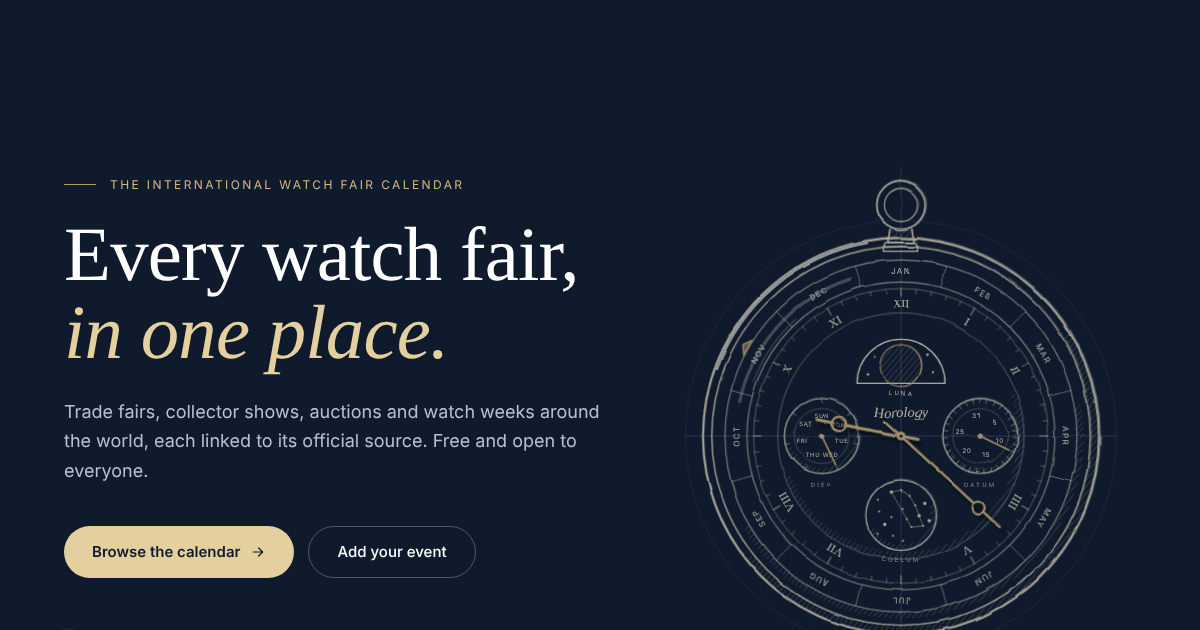
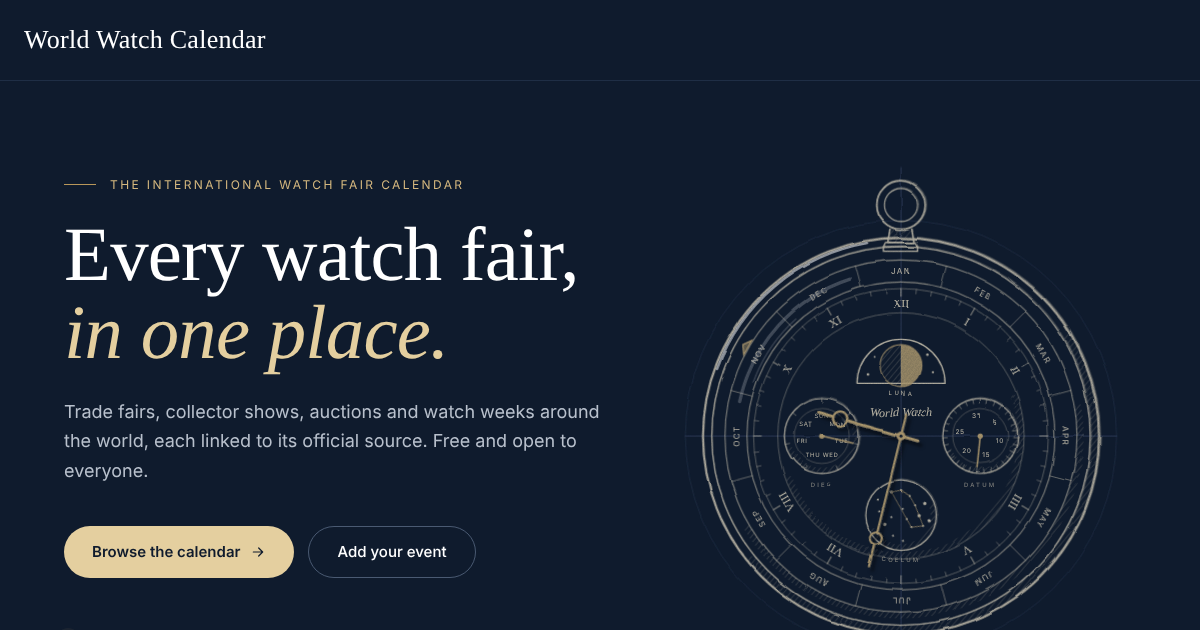
Rename the site to World Watch Calendar
Claude-Session: https://claude.ai/code/session_014pwoN7eabsGkLsZwmVNfCM

diff --git a/src/app.js b/src/app.js
@@ -90,17 +90,17 @@ const STAR = (on) => '<svg width="20" height="20" viewBox="0 0 24 24" fill="' + 
 
 function header(active) {
   const l = (h, t, k) => '<a href="' + h + '" class="nl ul' + (active === k ? ' on' : '') + '"' + (active === k ? ' aria-current="page"' : '') + '>' + t + '</a>';
-  return '<header class="hd"><div class="wrap-l hdi"><a href="/" class="logo">Horology Calendar</a><div class="hdr">'
+  return '<header class="hd"><div class="wrap-l hdi"><a href="/" class="logo">World Watch Calendar</a><div class="hdr">'
     + '<button class="sbtn" data-act="search" aria-label="Search events (shortcut /)" title="Search (/)"><svg width="18" height="18" viewBox="0 0 24 24" fill="none" stroke="currentColor" stroke-width="1.8" stroke-linecap="round" aria-hidden="true"><circle cx="11" cy="11" r="7"/><path d="M20 20l-3.5-3.5"/></svg></button>'
     + '<button class="menu" data-act="menu" aria-label="Open menu" aria-expanded="false"><svg width="20" height="20" viewBox="0 0 24 24" fill="none" stroke="currentColor" stroke-width="1.8" stroke-linecap="round" aria-hidden="true"><path d="M4 7h16M4 12h16M4 17h16"/></svg></button>'
     + '<nav class="nav" id="nav" aria-label="Main"><span class="clock" id="clock">Geneva --:--</span>' + l('/', 'Calendar', 'home') + l('/agenda', 'Agenda', 'agenda') + l('/map', 'Map', 'map') + l('/about', 'About', 'about')
     + '<a href="/add" class="pill' + (active === 'add' ? ' on' : '') + '">Add your event</a></nav></div></div></header>';
 }
 function footer(with289) {
-  return '<footer class="ft"><div class="wrap ftg reveal"><div style="flex:1 1 280px;max-width:360px"><div class="serif" style="font-size:26px">Horology Calendar</div><p style="margin:14px 0 0;font-size:14px;line-height:1.65;color:var(--muted)">The free, open calendar of watch fairs and events worldwide.</p></div>'
+  return '<footer class="ft"><div class="wrap ftg reveal"><div style="flex:1 1 280px;max-width:360px"><div class="serif" style="font-size:26px">World Watch Calendar</div><p style="margin:14px 0 0;font-size:14px;line-height:1.65;color:var(--muted)">The free, open calendar of watch fairs and events worldwide.</p></div>'
     + '<nav aria-label="Explore"><span class="k" style="font-size:11px">Explore</span><a class="ul" href="/">Calendar</a><a class="ul" href="/agenda">Agenda</a><a class="ul" href="/map">World map</a><a class="ul" href="/add">Add your event</a></nav>'
     + '<nav aria-label="Information"><span class="k" style="font-size:11px">Information</span><a class="ul" href="/about">About</a><a class="ul" href="/legal">Legal &amp; privacy</a><a class="ul" href="' + (import.meta.env.VITE_REPO_URL || '/about') + '"' + (import.meta.env.VITE_REPO_URL ? ' target="_blank" rel="noopener"' : '') + '>Open source</a></nav></div>'
-    + '<div class="wrap ftb"><span>© ' + new Date().getFullYear() + ' Horology Calendar · Open source · <a href="/admin" style="color:inherit;text-decoration:none;opacity:.6">Admin</a></span>' + (with289 ? '<span style="font-size:12px">An initiative of 289 Consulting</span>' : '') + '</div></footer>';
+    + '<div class="wrap ftb"><span>© ' + new Date().getFullYear() + ' World Watch Calendar · Open source · <a href="/admin" style="color:inherit;text-decoration:none;opacity:.6">Admin</a></span>' + (with289 ? '<span style="font-size:12px">An initiative of 289 Consulting</span>' : '') + '</div></footer>';
 }
 
 /* ---------------- HOME ---------------- */
@@ -433,7 +433,7 @@ function pageAdd() {
     + '<label class="lbl2">Short description<textarea class="field" rows="4" maxlength="300" name="desc" placeholder="One or two sentences about the event"></textarea><span id="cc" style="align-self:flex-end;font-size:12px;font-weight:400;color:var(--muted)">0 / 300</span></label></fieldset>'
     + '<fieldset class="reveal" style="margin:0;padding:0;border:0;display:flex;flex-direction:column;gap:22px"><legend class="serif" style="padding:0;margin-bottom:28px;font-size:36px"><span style="font-size:20px;color:var(--gold2);margin-right:14px">02</span>Location</legend><label class="lbl2">Venue<input class="field" name="venue" placeholder="e.g. Palexpo"></label><div class="frow" style="gap:20px"><label class="lbl2" style="flex:1 1 220px">City *<input class="field" name="city" required></label><label class="lbl2" style="flex:1 1 220px">Country *<select class="field" name="country" required><option value="">Select a country</option>' + COUNTRY_LIST.map(([k, c]) => '<option value="' + k + '">' + esc(c) + '</option>').join('') + '</select></label></div></fieldset>'
     + '<fieldset class="reveal" style="margin:0;padding:0;border:0;display:flex;flex-direction:column;gap:22px"><legend class="serif" style="padding:0;margin-bottom:28px;font-size:36px"><span style="font-size:20px;color:var(--gold2);margin-right:14px">03</span>Organiser</legend><div class="frow" style="gap:20px"><label class="lbl2" style="flex:1 1 220px">Organiser name *<input class="field" name="org" required></label><label class="lbl2" style="flex:1 1 220px">Contact email *<input class="field" type="email" name="email" required placeholder="Not shown publicly"></label></div><label class="lbl2">Official website *<input class="field" type="url" name="site" required placeholder="https://"></label><label class="lbl2">Press days (optional)<input class="field" name="press" maxlength="80" placeholder="e.g. 5 – 6 April, press only"></label><label class="hp" aria-hidden="true">Leave empty<input name="website2" tabindex="-1" autocomplete="off"></label></fieldset>'
-    + '<div class="reveal" style="display:flex;flex-direction:column;gap:24px"><div style="padding:28px;background:var(--surface);border-radius:4px"><label style="display:flex;align-items:flex-start;gap:14px;font-size:14px;line-height:1.65;cursor:pointer"><input type="checkbox" name="ok" required style="width:18px;height:18px;margin:3px 0 0;flex:0 0 auto;accent-color:#0F1B2D"><span>I represent the organiser of this event. I confirm the information is accurate and accept that the organiser is responsible for the content published.</span></label><p style="margin:12px 0 0 32px;font-size:13px;line-height:1.6;color:var(--muted)">Horology Calendar reviews new listings and may edit or remove those that are inaccurate or unrelated to watchmaking.</p></div>'
+    + '<div class="reveal" style="display:flex;flex-direction:column;gap:24px"><div style="padding:28px;background:var(--surface);border-radius:4px"><label style="display:flex;align-items:flex-start;gap:14px;font-size:14px;line-height:1.65;cursor:pointer"><input type="checkbox" name="ok" required style="width:18px;height:18px;margin:3px 0 0;flex:0 0 auto;accent-color:#0F1B2D"><span>I represent the organiser of this event. I confirm the information is accurate and accept that the organiser is responsible for the content published.</span></label><p style="margin:12px 0 0 32px;font-size:13px;line-height:1.6;color:var(--muted)">World Watch Calendar reviews new listings and may edit or remove those that are inaccurate or unrelated to watchmaking.</p></div>'
     + '<p class="err" id="adderr" role="alert" style="margin:0"></p><button class="btn btn-navy" type="submit" id="addbtn" style="align-self:flex-start;min-height:56px;padding:0 34px">Publish event ' + ARR + '</button><p style="margin:0;font-size:13px;line-height:1.6;color:var(--muted)">By publishing, you agree to our <a class="ul" href="/legal">terms and privacy notice</a>. Your email is only used to contact you about this listing.</p></div></form></main>' + footer(false);
 }
 async function saveSub(f) {
@@ -459,7 +459,7 @@ function addDone(ev0) {
 
 /* ---------------- ABOUT ---------------- */
 function pageAbout() {
-  return '<section class="dark" style="overflow:hidden">' + header('about') + '<div class="wrap" style="padding-top:96px;padding-bottom:104px;display:flex;flex-wrap:wrap;align-items:center;gap:56px"><div style="flex:999 1 520px;min-width:0"><div class="eyebrow in">About</div><h1 class="big in d1">A free, open calendar for the <em class="g">watch world.</em></h1><p class="lead in d2">Watch fairs, collector shows and watch weeks are spread across dozens of websites. Horology Calendar brings them together in one simple place, for brands, press, retailers and collectors.</p></div>'
+  return '<section class="dark" style="overflow:hidden">' + header('about') + '<div class="wrap" style="padding-top:96px;padding-bottom:104px;display:flex;flex-wrap:wrap;align-items:center;gap:56px"><div style="flex:999 1 520px;min-width:0"><div class="eyebrow in">About</div><h1 class="big in d1">A free, open calendar for the <em class="g">watch world.</em></h1><p class="lead in d2">Watch fairs, collector shows and watch weeks are spread across dozens of websites. World Watch Calendar brings them together in one simple place, for brands, press, retailers and collectors.</p></div>'
     + '<div class="in d2" style="flex:1 1 260px;display:flex;justify-content:center"><svg viewBox="0 0 400 400" style="width:100%;max-width:330px" aria-hidden="true"><defs><path id="ar" d="M200,200 m-170,0 a170,170 0 1,1 340,0 a170,170 0 1,1 -340,0"/></defs><circle cx="200" cy="200" r="190" fill="none" stroke="#1F2E45"/><circle cx="200" cy="200" r="150" fill="none" stroke="#1F2E45"/><g class="ring" style="animation-duration:200s"><text font-family="Inter,sans-serif" font-size="11" letter-spacing="4.4" fill="#B8975A"><textPath href="#ar">BRANDS · PRESS · RETAILERS · COLLECTORS · ORGANISERS · BRANDS · PRESS · RETAILERS · COLLECTORS · </textPath></text></g><text x="200" y="196" text-anchor="middle" font-family="Instrument Serif,Georgia,serif" font-size="64" fill="#E4CF9F">One</text><text x="200" y="228" text-anchor="middle" font-family="Inter,sans-serif" font-size="10" letter-spacing="3.5" fill="#B8C0CC">CALENDAR FOR ALL</text></svg></div></div></section>'
     + '<main class="wrap" style="padding-top:112px;padding-bottom:40px"><div class="eyebrow reveal">How it works</div><h2 class="sec reveal">Simple by design</h2><div style="margin-top:48px;display:grid;grid-template-columns:repeat(auto-fit,minmax(260px,1fr));gap:24px">'
     + [['01', 'Listed', 'Events from around the world, filterable by country, date, type and size.'], ['02', 'Linked to the source', 'Every listing points to the event’s official website for tickets and registration.'], ['03', 'Open to organisers', 'Organisers add their own events for free, in a few minutes.']].map(([n, t, d], i) => '<div class="step reveal" style="--d:' + i * 150 + 'ms"><div class="serif" style="font-size:48px;line-height:1;color:var(--gold2)">' + n + '</div><h3 style="margin:28px 0 0;font-size:19px;font-weight:600">' + t + '</h3><p style="margin:12px 0 0;font-size:15px;line-height:1.7;color:var(--muted)">' + d + '</p></div>').join('')
@@ -475,8 +475,8 @@ function pageLegal() {
   const C = import.meta.env.VITE_CONTACT_EMAIL || '[contact email]';
   return '<section class="dark">' + header('') + '<div class="wrap" style="padding-top:88px;padding-bottom:72px"><div class="eyebrow in">Legal</div><h1 class="big in d1">Legal notice &amp; <em class="g">privacy</em></h1><p class="lead in d2">Last updated ' + range('2026-11-11', '2026-11-11') + '.</p></div></section>'
     + '<main style="max-width:820px;margin:0 auto;padding:40px 24px 120px">'
-    + sec('Publisher', '<p>Horology Calendar is published by 289 Consulting, [legal form and registered address], Switzerland. Contact: <a class="ul" href="mailto:' + C + '">' + C + '</a>.</p><p>The website is hosted by Vercel Inc., 440 N Barranca Ave #4133, Covina, CA 91723, United States. Event data is stored with Supabase Inc. in a European data centre.</p>')
-    + sec('Listings and responsibility', '<p>Horology Calendar is a free, independent calendar. Event information is published by each organiser, or compiled by our team from official sources. The organiser remains responsible for the content of their listing.</p><p>We review new listings and may edit or remove any listing that is inaccurate, misleading, unrelated to watchmaking or that infringes third-party rights. Dates, venues and access conditions can change: always check the official website before travelling.</p><p>Names, logos and images belong to their respective owners and are shown for information only, with credit, or with the organiser’s permission.</p>')
+    + sec('Publisher', '<p>World Watch Calendar is published by 289 Consulting, [legal form and registered address], Switzerland. Contact: <a class="ul" href="mailto:' + C + '">' + C + '</a>.</p><p>The website is hosted by Vercel Inc., 440 N Barranca Ave #4133, Covina, CA 91723, United States. Event data is stored with Supabase Inc. in a European data centre.</p>')
+    + sec('Listings and responsibility', '<p>World Watch Calendar is a free, independent calendar. Event information is published by each organiser, or compiled by our team from official sources. The organiser remains responsible for the content of their listing.</p><p>We review new listings and may edit or remove any listing that is inaccurate, misleading, unrelated to watchmaking or that infringes third-party rights. Dates, venues and access conditions can change: always check the official website before travelling.</p><p>Names, logos and images belong to their respective owners and are shown for information only, with credit, or with the organiser’s permission.</p>')
     + sec('Personal data', '<p><strong>Organisers.</strong> When you add an event, we store the contact email you give us. It is never published and is only used to contact you about your listing. We keep it as long as the listing is online, then delete it.</p><p><strong>Newsletter.</strong> If you subscribe, we store your email to send you a monthly overview of upcoming events. You can unsubscribe at any time with the link in each email or by writing to us.</p><p><strong>Visitors.</strong> We do not use advertising or tracking cookies. Events you save to “My season” are stored only in your own browser.</p><p>You can ask us to access, correct or delete your data at any time by writing to <a class="ul" href="mailto:' + C + '">' + C + '</a>. Our processing follows the Swiss Federal Act on Data Protection (FADP) and, for visitors in the European Union, the GDPR.</p>')
     + sec('Maps', '<p>Country outlines come from Natural Earth (public domain). City coordinates are looked up with OpenStreetMap Nominatim (© OpenStreetMap contributors).</p>')
     + '</main>' + footer(true);
@@ -558,7 +558,7 @@ async function admSet(id, patch) {
 }
 function pageAdmin() {
   const head = '<section class="dark">' + header('') + '<div class="wrap-l" style="padding-top:72px;padding-bottom:64px"><div class="eyebrow in">Admin</div><h1 class="big in d1">Listings <em class="g">desk</em></h1>';
-  if (!admUnlocked()) return head + '<form id="admlog" class="in d2" style="margin-top:36px;display:flex;flex-direction:column;gap:10px;max-width:420px"><label><span class="sr">Email</span><input class="field" type="email" name="email" placeholder="Email" autocomplete="username" required style="height:54px;border-radius:999px;padding:0 20px"></label><label><span class="sr">Password</span><input class="field" type="password" name="pw" placeholder="Password" autocomplete="current-password" required style="height:54px;border-radius:999px;padding:0 20px"></label><button class="btn btn-gold" type="submit" style="align-self:flex-start">Sign in</button></form>' + (DEMO ? '<p class="in d3" style="margin:14px 0 0;font-size:13px;color:var(--gold)">Demo mode (no database connected): sign in with demo@horologycalendar.test / demo</p>' : '') + '<p class="in d3" style="margin:14px 0 0;font-size:13px;color:var(--muted-d2)">Restricted to the Horology Calendar team.</p><p class="err" id="admerr" role="alert" style="margin:10px 0 0"></p></div></section>' + footer(false);
+  if (!admUnlocked()) return head + '<form id="admlog" class="in d2" style="margin-top:36px;display:flex;flex-direction:column;gap:10px;max-width:420px"><label><span class="sr">Email</span><input class="field" type="email" name="email" placeholder="Email" autocomplete="username" required style="height:54px;border-radius:999px;padding:0 20px"></label><label><span class="sr">Password</span><input class="field" type="password" name="pw" placeholder="Password" autocomplete="current-password" required style="height:54px;border-radius:999px;padding:0 20px"></label><button class="btn btn-gold" type="submit" style="align-self:flex-start">Sign in</button></form>' + (DEMO ? '<p class="in d3" style="margin:14px 0 0;font-size:13px;color:var(--gold)">Demo mode (no database connected): sign in with demo@worldwatchcalendar.test / demo</p>' : '') + '<p class="in d3" style="margin:14px 0 0;font-size:13px;color:var(--muted-d2)">Restricted to the World Watch Calendar team.</p><p class="err" id="admerr" role="alert" style="margin:10px 0 0"></p></div></section>' + footer(false);
   const all = EV.slice().sort((a, b) => a.s < b.s ? -1 : 1);
   const todo = all.filter((e) => e.user && !e.reviewed && !e.hidden).sort((a, b) => a.sub < b.sub ? 1 : -1);
   const live = all.filter((e) => !e.hidden && e.e >= today());
@@ -684,7 +684,7 @@ function sketchSVG() {
   o += '<g class="sky"><g class="skt" style="--d:' + D(120) + 'ms">' + st.map(([x, y], i) => '<circle cx="' + (C + x) + '" cy="' + (322 + y) + '" r="' + (i % 4 ? .9 : 1.5) + '" fill="' + P + '"/>').join('') + '</g>'
     + '<path class="sk" pathLength="1" d="M' + (C - 14) + ' 304 L' + (C - 6) + ' 300 L' + (C + 3) + ' 303 L' + (C + 10) + ' 310 L' + (C + 16) + ' 318 L' + (C + 22) + ' 326 L' + (C + 12) + ' 330 Z" stroke="' + G + '" stroke-width=".8" stroke-opacity=".8" fill="none" style="--d:' + D(200) + 'ms"/></g>';
   o += tx(C, 362, 'COELUM', 5.4, D(60), ' letter-spacing="2" fill-opacity=".7"');
-  o += tx(C, 228, 'Horology', 13, D(80), ' font-family="Instrument Serif,Georgia,serif" font-style="italic"');
+  o += tx(C, 228, 'World Watch', 11, D(80), ' font-family="Instrument Serif,Georgia,serif" font-style="italic"');
   // relief: hatched inner shadows (light from top-left) + domed crystal highlight
   const arcBand = (cx, cy, r1, r2, a1, a2) => { const [x1, y1] = pol(cx, cy, r2, a1), [x2, y2] = pol(cx, cy, r2, a2), [x3, y3] = pol(cx, cy, r1, a2), [x4, y4] = pol(cx, cy, r1, a1); return 'M' + x1 + ' ' + y1 + ' A' + r2 + ' ' + r2 + ' 0 0 1 ' + x2 + ' ' + y2 + ' L' + x3 + ' ' + y3 + ' A' + r1 + ' ' + r1 + ' 0 0 0 ' + x4 + ' ' + y4 + ' Z'; };
   const sh = D(120);
@@ -761,14 +761,14 @@ function go(path) { if (path !== location.pathname + location.hash) history.push
 function route() {
   const p = location.pathname.replace(/\/+$/, '') || '/';
   const app = document.getElementById('app');
-  const H = 'Horology Calendar';
+  const H = 'World Watch Calendar';
   if (GLM.api && p !== '/map') { GLM.api.destroy(); GLM.api = null; }
   if (p.startsWith('/event/')) { const id = decodeURIComponent(p.slice(7)); const e = byId[id]; app.innerHTML = pageEvent(id); setMeta((e ? e.n + ' · ' : 'Event not found · ') + H, e ? e.n + ': ' + range(e.s, e.e) + ', ' + place(e) + '. ' + (e.desc || 'Dates, venue and official website.') : ''); if (e) eventJsonLd(e); tickCountdown(); }
   else if (p === '/agenda') { app.innerHTML = pageAgenda(); renderAgenda(); setMeta('Agenda · ' + H, 'Month-by-month agenda of watch fairs, collector shows, auctions and watch weeks worldwide.'); }
   else if (p === '/map') { if (GLM.api) { GLM.api.destroy(); GLM.api = null; } app.innerHTML = pageMap(); updateMap(); setMeta('World map · ' + H, 'Explore watch fairs and events around the world on an interactive map.'); }
   else if (p === '/add') { app.innerHTML = pageAdd(); window.__addT = Date.now(); setMeta('Add your event · ' + H, 'Organisers: list your watch fair or event for free in a few minutes.'); }
   else if (p === '/about') { app.innerHTML = pageAbout(); setMeta('About · ' + H, 'A free, open calendar for the watch world. An initiative of 289 Consulting.'); }
-  else if (p === '/legal') { app.innerHTML = pageLegal(); setMeta('Legal & privacy · ' + H, 'Legal notice, terms of publication and privacy policy of Horology Calendar.'); }
+  else if (p === '/legal') { app.innerHTML = pageLegal(); setMeta('Legal & privacy · ' + H, 'Legal notice, terms of publication and privacy policy of World Watch Calendar.'); }
   else if (p === '/admin') { if (!AUTH.checked) { AUTH.checked = true; admLoad().then(() => { if (AUTH.ok) route(); }); } app.innerHTML = pageAdmin(); renderAdmRows(); setMeta('Admin · ' + H); }
   else if (p === '/') { app.innerHTML = pageHome(); heroStart(); renderList(); setMeta(H + ' · The international watch fair calendar', 'The free, open calendar of watch fairs and events worldwide: trade fairs, collector shows, auctions and watch weeks, each linked to its official source.'); countUp(); }
   else { app.innerHTML = pageNotFound(); setMeta('Page not found · ' + H); }
@@ -800,7 +800,7 @@ document.addEventListener('click', (ev) => {
   if (a === 'admhide') { const e = byId[t.dataset.id], was = e.hidden; admSet(e.id, { hid: !was, rev: true }).then(() => { toast(was ? 'Listing restored' : 'Listing hidden from the site'); admRefresh(); }, () => {}); return; }
   if (a === 'admedit') { admEdit(t.dataset.id); return; }
   if (a === 'admclose') { const o = document.getElementById('admedit'); if (o) o.remove(); return; }
-  if (a === 'admsubs') { api.subscribers().then((list) => { const csv = 'email,signed_up\n' + list.map((s) => s.email + ',' + (s.created_at || '').slice(0, 10)).join('\n'); const u = URL.createObjectURL(new Blob([csv], { type: 'text/csv' })); const l = document.createElement('a'); l.href = u; l.download = 'horology-calendar-newsletter.csv'; document.body.appendChild(l); l.click(); l.remove(); toast(list.length + ' subscribers exported'); }, () => toast('Could not load the list')); return; }
+  if (a === 'admsubs') { api.subscribers().then((list) => { const csv = 'email,signed_up\n' + list.map((s) => s.email + ',' + (s.created_at || '').slice(0, 10)).join('\n'); const u = URL.createObjectURL(new Blob([csv], { type: 'text/csv' })); const l = document.createElement('a'); l.href = u; l.download = 'world-watch-calendar-newsletter.csv'; document.body.appendChild(l); l.click(); l.remove(); toast(list.length + ' subscribers exported'); }, () => toast('Could not load the list')); return; }
   if (a === 'admout') { api.signOut().then(() => { Object.assign(AUTH, { ok: false, email: '', contacts: {} }); return loadEvents(); }).then(() => route()); return; }
   if (a === 'admgeo') { const f = document.getElementById('admef'); toast('Looking up ' + f.city.value + '…'); geocode(f.city.value, (byId[f.dataset.id] || {}).country || '').then((p) => { if (p) { f.lat.value = p.lat; f.lon.value = p.lon; toast('Coordinates found'); } else toast('City not found, enter coordinates manually'); }); return; }
   if (a === 'sclose') { closeSearch(); return; }
@@ -813,7 +813,7 @@ document.addEventListener('click', (ev) => {
   if (a === 'reset') { Object.assign(F, { q: '', country: '', month: '', size: '', type: 'all', open: false, free: false, mine: false, autoMonth: true }); route(); return; }
   if (a === 'star') { const id = t.dataset.id; if (saved[id]) delete saved[id]; else saved[id] = 1; store.set(saved); toast(saved[id] ? 'Saved to My season' : 'Removed from My season'); if (document.getElementById('list')) renderList(); else route(); return; }
   if (a === 'copy') { try { navigator.clipboard.writeText(location.href).then(() => toast('Link copied'), () => toast('Copy the address from your browser bar')); } catch (x) { toast('Copy the address from your browser bar'); } return; }
-  if (a === 'ics') { const e = byId[t.dataset.id]; const txt = ['BEGIN:VCALENDAR', 'VERSION:2.0', 'PRODID:-//Horology Calendar//EN', 'BEGIN:VEVENT', 'UID:' + e.id + '@horology-calendar', 'DTSTAMP:' + new Date().toISOString().replace(/[-:]/g, '').slice(0, 15) + 'Z', 'DTSTART;VALUE=DATE:' + e.s.replace(/-/g, ''), 'DTEND;VALUE=DATE:' + ISO(T(e.e) + DAY).replace(/-/g, ''), 'SUMMARY:' + e.n.replace(/,/g, '\\,'), 'LOCATION:' + place(e).replace(/,/g, '\\,'), 'URL:' + (e.site || ''), 'END:VEVENT', 'END:VCALENDAR'].join('\r\n'); const url = URL.createObjectURL(new Blob([txt], { type: 'text/calendar' })); const l = document.createElement('a'); l.href = url; l.download = e.id + '.ics'; document.body.appendChild(l); l.click(); l.remove(); setTimeout(() => URL.revokeObjectURL(url), 1500); return; }
+  if (a === 'ics') { const e = byId[t.dataset.id]; const txt = ['BEGIN:VCALENDAR', 'VERSION:2.0', 'PRODID:-//World Watch Calendar//EN', 'BEGIN:VEVENT', 'UID:' + e.id + '@worldwatchcalendar', 'DTSTAMP:' + new Date().toISOString().replace(/[-:]/g, '').slice(0, 15) + 'Z', 'DTSTART;VALUE=DATE:' + e.s.replace(/-/g, ''), 'DTEND;VALUE=DATE:' + ISO(T(e.e) + DAY).replace(/-/g, ''), 'SUMMARY:' + e.n.replace(/,/g, '\\,'), 'LOCATION:' + place(e).replace(/,/g, '\\,'), 'URL:' + (e.site || ''), 'END:VEVENT', 'END:VCALENDAR'].join('\r\n'); const url = URL.createObjectURL(new Blob([txt], { type: 'text/calendar' })); const l = document.createElement('a'); l.href = url; l.download = e.id + '.ics'; document.body.appendChild(l); l.click(); l.remove(); setTimeout(() => URL.revokeObjectURL(url), 1500); return; }
   if (a === 'agprev') { A.mi--; A.sel = ''; renderAgenda(); return; }
   if (a === 'agnext') { A.mi++; A.sel = ''; renderAgenda(); return; }
   if (a === 'agm') { A.mi = +v; A.sel = ''; renderAgenda(); return; }
@@ -855,12 +855,12 @@ async function boot() {
   const intro = !seen && location.pathname === '/';
   const t0 = Date.now(); let l = null;
   if (intro) {
-    const word = 'Horology Calendar'.split('').map((c, i) => c === ' ' ? '<span>&#160;</span>' : '<span class="ch" style="animation-delay:' + (200 + i * 100) + 'ms">' + c + '</span>').join('');
-    l = document.createElement('div'); l.className = 'ld'; l.setAttribute('role', 'status'); l.setAttribute('aria-label', 'Loading Horology Calendar');
+    const word = 'World Watch Calendar'.split('').map((c, i) => c === ' ' ? '<span>&#160;</span>' : '<span class="ch" style="animation-delay:' + (200 + i * 100) + 'ms">' + c + '</span>').join('');
+    l = document.createElement('div'); l.className = 'ld'; l.setAttribute('role', 'status'); l.setAttribute('aria-label', 'Loading World Watch Calendar');
     l.innerHTML = '<div class="bar"></div><div style="padding:0 16px"><div class="word" aria-hidden="true">' + word + '</div><div class="sub">The international watch fair calendar</div></div>';
     introDone = false; document.documentElement.classList.add('intro'); document.body.appendChild(l);
   }
-  try { await loadEvents(); } catch (x) { if (l) l.remove(); document.documentElement.classList.remove('intro'); document.getElementById('app').innerHTML = '<div style="padding:120px 24px;text-align:center;font-family:Inter,sans-serif"><h1 style="font-weight:500">Horology Calendar</h1><p>The calendar could not be loaded. Please refresh the page in a moment.</p></div>'; return; }
+  try { await loadEvents(); } catch (x) { if (l) l.remove(); document.documentElement.classList.remove('intro'); document.getElementById('app').innerHTML = '<div style="padding:120px 24px;text-align:center;font-family:Inter,sans-serif"><h1 style="font-weight:500">World Watch Calendar</h1><p>The calendar could not be loaded. Please refresh the page in a moment.</p></div>'; return; }
   if (location.pathname === '/admin') { try { await admLoad(); } catch (x) {} }
   if (!intro) { firstLoad = false; route(); return; }
   route();

diff --git a/src/style.css b/src/style.css
@@ -124,7 +124,8 @@ kbd{display:inline-flex;align-items:center;justify-content:center;min-width:26px
 /* header */
 .hd{border-bottom:1px solid var(--line-d);background:var(--navy);color:#fff;position:relative;z-index:20}
 .hdi{min-height:80px;display:flex;align-items:center;justify-content:space-between;gap:16px}
-.logo{font-family:var(--serif);font-size:26px;color:#fff;text-decoration:none;letter-spacing:.01em}
+.logo{font-family:var(--serif);font-size:26px;color:#fff;text-decoration:none;letter-spacing:.01em;white-space:nowrap}
+@media (max-width:480px){.logo{font-size:21px}}
 .nav{display:flex;align-items:center;gap:34px;font-size:12px;letter-spacing:.16em;text-transform:uppercase}
 .nl{color:#C5CCD6}
 .nl:hover,.nl.on{color:#fff}
@@ -144,7 +145,7 @@ kbd{display:inline-flex;align-items:center;justify-content:center;min-width:26px
 .ld{position:fixed;inset:0;z-index:100;background:#fff;display:flex;align-items:center;justify-content:center;transition:opacity .7s ease,visibility .7s}
 .ld.out{opacity:0;visibility:hidden}
 .ld .bar{position:absolute;top:0;left:0;height:3px;width:0;background:var(--navy);animation:bar 2.7s cubic-bezier(.6,0,.2,1) .1s forwards}
-.ld .word{font-family:var(--serif);font-size:clamp(36px,8vw,60px);white-space:nowrap;line-height:1}
+.ld .word{font-family:var(--serif);font-size:clamp(28px,7.5vw,60px);white-space:nowrap;line-height:1}
 .ld .ch{color:#D3D5D9;animation:ink .4s ease forwards}
 .ld .sub{margin-top:16px;font-size:12px;letter-spacing:.28em;text-transform:uppercase;color:var(--muted);opacity:0;animation:fade .7s ease 1.9s forwards;text-align:center}
 @keyframes bar{to{width:100%}}

diff --git a/src/api.js b/src/api.js
@@ -1,4 +1,4 @@
-// Data access for Horology Calendar.
+// Data access for World Watch Calendar.
 // With VITE_SUPABASE_URL and VITE_SUPABASE_ANON_KEY set, everything goes to the
 // Supabase database. Without them the site runs in "demo mode" from the bundled
 // seed data, and changes are kept in the visitor's own browser only.
@@ -60,9 +60,9 @@ function demoApi() {
     },
     async updateEvent(id, patch) { if (!signed) throw new Error('not allowed'); const s = state(); s.patch[id] = Object.assign(s.patch[id] || {}, patch, { updated_on: today() }); save(s); },
     async subscribe(email) { const s = state(); if (!s.subs.find((x) => x.email === email)) s.subs.push({ email, created_at: new Date().toISOString() }); save(s); },
-    async signIn(email, password) { if (email !== 'demo@horologycalendar.test' || password !== 'demo') throw new Error('Invalid login'); signed = true; try { sessionStorage.setItem('hc-demo-admin', '1'); } catch (x) {} },
+    async signIn(email, password) { if (email !== 'demo@worldwatchcalendar.test' || password !== 'demo') throw new Error('Invalid login'); signed = true; try { sessionStorage.setItem('hc-demo-admin', '1'); } catch (x) {} },
     async signOut() { signed = false; try { sessionStorage.removeItem('hc-demo-admin'); } catch (x) {} },
-    async session() { return signed ? { email: 'demo@horologycalendar.test' } : null; },
+    async session() { return signed ? { email: 'demo@worldwatchcalendar.test' } : null; },
     async isAdmin() { return signed; },
     async contacts() { return state().contacts; },
     async subscribers() { return state().subs; },

diff --git a/index.html b/index.html
@@ -3,13 +3,13 @@
 <head>
 <meta charset="utf-8">
 <meta name="viewport" content="width=device-width, initial-scale=1">
-<title>Horology Calendar · The international watch fair calendar</title>
+<title>World Watch Calendar · The international watch fair calendar</title>
 <meta name="description" content="The free, open calendar of watch fairs and events worldwide: trade fairs, collector shows, auctions and watch weeks, each linked to its official source.">
 <meta name="theme-color" content="#0F1B2D">
 <link rel="icon" href="/favicon.svg" type="image/svg+xml">
 <meta property="og:type" content="website">
-<meta property="og:site_name" content="Horology Calendar">
-<meta property="og:title" content="Horology Calendar · The international watch fair calendar">
+<meta property="og:site_name" content="World Watch Calendar">
+<meta property="og:title" content="World Watch Calendar · The international watch fair calendar">
 <meta property="og:description" content="Every watch fair, collector show, auction and watch week worldwide, in one free calendar.">
 <meta property="og:image" content="/og.png">
 <meta name="twitter:card" content="summary_large_image">

diff --git a/README.md b/README.md
@@ -1,4 +1,4 @@
-# Horology Calendar
+# World Watch Calendar
 
 The free, open calendar of watch fairs and events worldwide: trade fairs, collector shows, auctions and watch weeks, each linked to its official source.
 
@@ -20,7 +20,7 @@ cp .env.example .env   # fill in your Supabase keys (optional)
 npm run dev
 ```
 
-Without Supabase keys the site runs in **demo mode** from `src/seed.json`; changes are kept in your browser only. Demo admin login: `demo@horologycalendar.test` / `demo`.
+Without Supabase keys the site runs in **demo mode** from `src/seed.json`; changes are kept in your browser only. Demo admin login: `demo@worldwatchcalendar.test` / `demo`.
 
 ## Project structure
 
